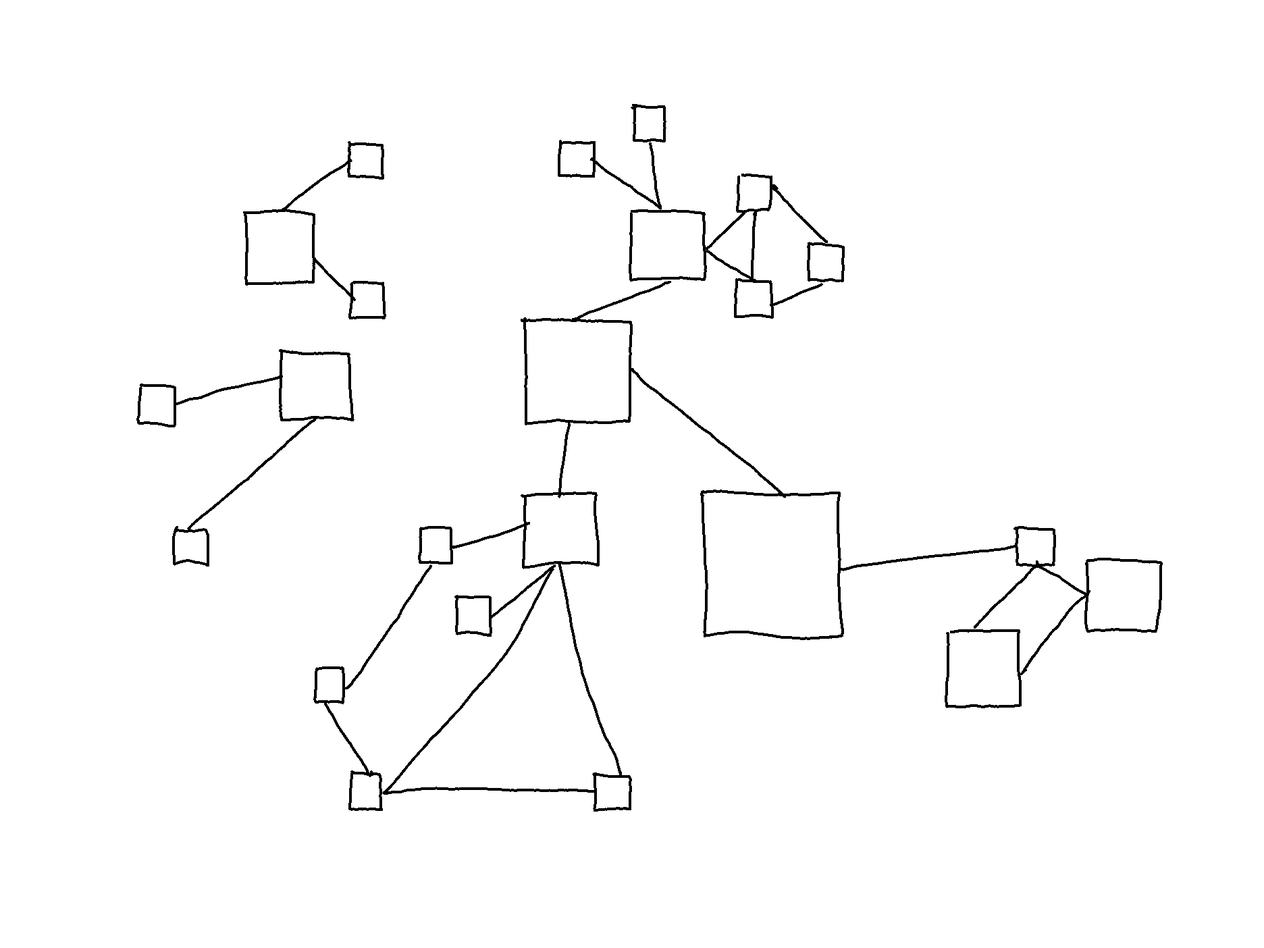
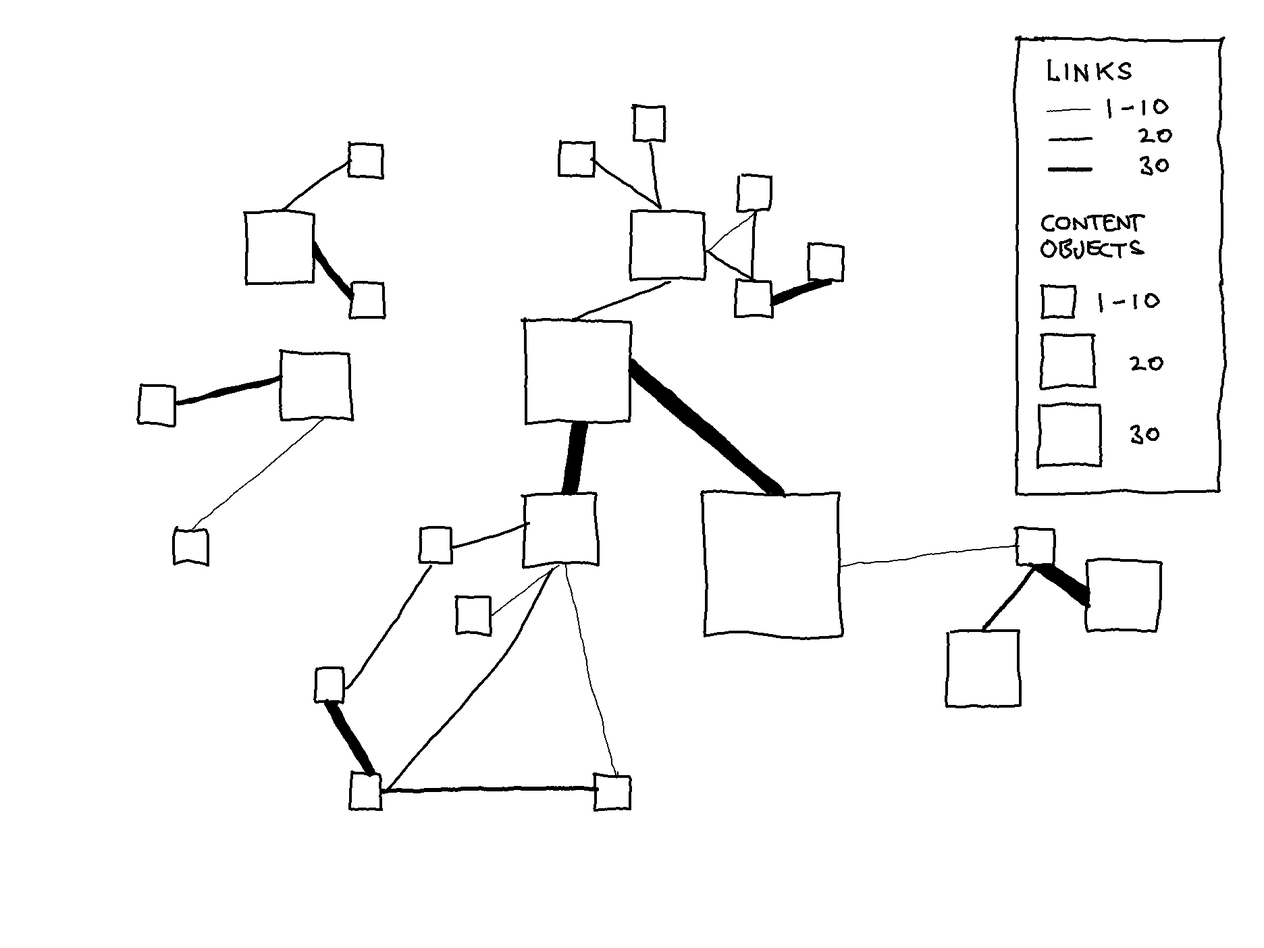
Edited Entry 04 Designing the Construct

diff --git a/_site/04.html b/_site/04.html
@@ -1,1 +1,1 @@
-<!DOCTYPE html><html lang="en" ><head><meta charset="UTF-8"><meta name="viewport" content="width=device-width, initial-scale=1.0"><link rel="preconnect" href="https://fonts.googleapis.com"><link rel="preconnect" href="https://fonts.gstatic.com" crossorigin><link href="https://fonts.googleapis.com/css2?family=Rubik&display=swap" rel="stylesheet"><meta name="generator" content="Jekyll v4.2.0" /><meta property="og:title" content="Designing the Construct" /><meta name="author" content="Rebecca Rui" /><meta property="og:locale" content="en_US" /><meta name="description" content="Components and View Modes" /><meta property="og:description" content="Components and View Modes" /><meta property="og:site_name" content="A Construct for Tinkering With Digital Text" /><meta property="og:type" content="article" /><meta property="article:published_time" content="2021-08-18T00:00:00+02:00" /><meta name="twitter:card" content="summary" /><meta property="twitter:title" content="Designing the Construct" /> <script type="application/ld+json"> {"headline":"Designing the Construct","dateModified":"2021-08-18T00:00:00+02:00","datePublished":"2021-08-18T00:00:00+02:00","mainEntityOfPage":{"@type":"WebPage","@id":"/msc_project_weblog/04"},"url":"/msc_project_weblog/04","author":{"@type":"Person","name":"Rebecca Rui"},"@type":"BlogPosting","description":"Components and View Modes","@context":"https://schema.org"}</script><title> MSc Project Weblog &#124; Designing the Construct</title><link rel="shortcut icon" href="/msc_project_weblog/favicon.png"><link rel="alternate" type="application/atom+xml" title="A Construct for Tinkering With Digital Text" href="/msc_project_weblog/atom.xml"><link rel="alternate" type="application/json" title="A Construct for Tinkering With Digital Text" href="/msc_project_weblog/feed.json" /><link rel="sitemap" type="application/xml" title="sitemap" href="/msc_project_weblog/sitemap.xml" /><style> *,:after,:before{box-sizing:border-box;background-color:inherit;color:inherit;margin:0;padding:0}body{font-family:'Rubik', sans-serif;-webkit-font-smoothing:antialiased;text-rendering:optimizeLegibility;line-height:1.5;font-size:1rem;color:#16171A}nav ul{border-right:1px solid #edf2f7}a{color:#000;text-decoration-skip-ink:auto;text-decoration:underline}pre{margin:.5rem 0;padding:.5rem}.post p{margin:.5rem 0}.post h1,.post h2,.post h3,.post h4{margin:1rem 0}.post h2:first-child,.project h2:first-child,.photo h2:first-child{margin-top:0}.meta{margin:2rem 0}.meta a{text-decoration:none}code,pre{background:#ECEDEE}code{padding:.1rem}pre code{border:none}pre{padding:1rem;overflow-x:auto}img{max-width:100%}hr{background:#000;height:1px;border:0}header{flex-basis:10rem;flex-grow:1;position:relative}header a{text-decoration:none}header li{margin-bottom:.2rem;text-align:right;margin-right:2rem}header a.active{text-decoration:underline;text-decoration-thickness:1px;text-underline-offset:0.1em;text-decoration-color:#edf2f7}header,section{padding:1rem}blockquote{font-style:italic;border-left:5px solid #ececec;padding-left:1rem}h1,h2,h3,h4,h5{line-height:1;margin:1rem 0;font-weight:600}section h1:first-child{margin-top:0}strong,b{font-weight:bold}.photos ul{list-style:none}.photos li{margin-bottom:1.5rem}.photo picture,.project picture{margin-bottom:0.5rem}.posts ul,header ul{list-style:none}.posts li{align-items:center;display:flex;justify-content:space-between;margin-bottom:.5rem}.posts li a,.posts li div,.projects li a{white-space:nowrap;overflow:hidden;text-overflow:ellipsis;text-decoration:none}.posts li time,.projects li time{padding-left:1rem;white-space:nowrap;font-variant-numeric:tabular-nums}main{display:flex;flex-wrap:wrap;max-width:60rem;margin:2rem auto;padding:1rem}@media screen and (max-width: 45rem){header li{display:inline;margin-right:1rem}.logo{padding-bottom:1rem}header ul{border-bottom:1px solid #edf2f7;padding-bottom:2rem}nav ul{border-right:0px}.photos ul{margin-top:0.5rem}}section{flex-basis:0;flex-grow:999;min-width:70%;display:flex;flex-direction:column}figcaption{font-size:smaller}</style></head><body><main role="main"><header role="banner"><nav role="navigation"><ul><li><a href="/msc_project_weblog/" >Entries</a></li><li><a href="/msc_project_weblog/about" >About</a></li></ul></nav></header><section class="post"><h2>Designing the Construct</h2><h2 id="components-and-view-modes">Components and View Modes</h2><p>View modes are different levels of perspective on documents. In addition, the two view modes differ in the components used for representing the concept of a document.</p><ol><li><strong>Inventory View</strong><ul><li>At the level of the collection.</li><li>Two-dimensional node-link diagram.</li><li>Displays quantity of connections between documents.</li></ul></li><li><strong>Stack View</strong><ul><li>At the level of a selection of the collection.</li><li>Three-dimensional layers.</li><li>Displays selection of connections and distinct connection types.</li></ul></li><li><strong>Merge Mode</strong><ul><li>At the level of content objects.</li><li>Two-dimensional frame.</li><li>Displays connections side-by-side or sequentially.</li></ul></li></ol><h3 id="1-inventory-view">1. Inventory View</h3><p><img src="assets/BP_01.png" alt="" /></p><p>In this view mode the entire inventory is visible and represented as a diagram in which a <strong>node</strong> denotes a document and a <strong>link</strong> denotes connections of varying types (specified below).</p><p><img src="assets/BP_02.png" alt="" /></p><p><strong>Node</strong></p><p>The size of a node reflects the number of content objects it contains (i.e. the size of the document).</p><p><strong>Link</strong></p><p>The length of a link reflects the number of links between the content objects across documents. Those documents that have the most links between them therefore form clusters.</p><p><img src="assets/BP_03.png" alt="" /></p><p>As seen in the image above, from Inventory View it is possible to select nodes to create a stack and enter Stack View.</p><h3 id="2-stack-view">2. Stack View</h3><p>A <strong>stack</strong> is made up of a set of documents represented as <strong>layers</strong> that contain <strong>content objects</strong>.</p><p><img src="assets/BP_A.png" alt="" /></p><p><strong>Stack</strong></p><p>A stack can be thought of as a workspace. The inventory in its entirety may contain complex layers of information, and so creating stacks is a convenient method for engaging with complexity by making a selection of which to view in more detail.</p><p><strong>Layer</strong></p><p>The concept of a document is represented as a layer, which instead of having a single title, has a single tag and appropriates its functionalities. In the image below there are four layers: <code class="language-plaintext highlighter-rouge">#MAIN</code>, <code class="language-plaintext highlighter-rouge">#A</code>, <code class="language-plaintext highlighter-rouge">#B</code>, and <code class="language-plaintext highlighter-rouge">#C</code>.</p><p><strong>Content Object</strong></p><p>Content objects are the parts that make up a text, of which there are many types: paragraphs, lists, emphatic phrases, titles, quotes, comments and so on. A content object can have any number of tags, placing it in multiple layers.</p><p><img src="assets/BP_B.png" alt="" /></p><p><strong>Link Types</strong></p><p>In the image below there are several links between the layers. As defined in the <a href="boundaries-of-documents-and-reflecting-interconnection">previous entry</a>, there are two general types of connections that cross the boundaries of documents: those that are transclusions (identical extracts in separate documents), and those that are not. In the image below, these two types are visually distinguished by dot-line-dot links and side-surface links.</p><p>*Note: it is important that these are visually distinguished but the visualization is subject to change.</p><p><img src="assets/BP_C.png" alt="" /></p><p>For the links that are not transclusions, these are categorized according to whichever taxonomy people wish to develop within the construct, hence the appropriation of a tagging system. By example, in the image below, if content object <code class="language-plaintext highlighter-rouge">ID_P2</code> is a comment on content object <code class="language-plaintext highlighter-rouge">ID_P1</code>, then the layer could be tagged <code class="language-plaintext highlighter-rouge">#COMMENTS</code>. If the other two layers are separate references, these layers could be tagged <code class="language-plaintext highlighter-rouge">#REFERENCE_X</code> and <code class="language-plaintext highlighter-rouge">#REFERENCE_Y</code>.</p><p><img src="assets/BP_D.png" alt="" /></p><p>It is also possible to display links only between a selection of layers in the stack. Upon selection, the stack is rearranged. In the two images below the layers <code class="language-plaintext highlighter-rouge">#MAIN</code> and <code class="language-plaintext highlighter-rouge">#COMMENTS</code> are selected, displaying the links between them, followed by stack rearrangement.</p><p><img src="assets/BP_X.png" alt="" /></p><p><img src="assets/BP_X2.png" alt="" /></p><p>While in Stack View it is possible to merge all or a selection of layers. The arrangement of the stack will determine how the layers are merged.</p><h3 id="3-merge-mode">3. Merge Mode</h3><p>In the image below, <code class="language-plaintext highlighter-rouge">#MAIN</code> and <code class="language-plaintext highlighter-rouge">#COMMENTS</code> are merged side by side.</p><p><img src="assets/BP_Y.png" alt="" /></p><p>In the image below, only the linked content objects (between <code class="language-plaintext highlighter-rouge">#MAIN</code> and <code class="language-plaintext highlighter-rouge">#COMMENTS</code>) are displayed side by side.</p><p><img src="assets/BP_Z1.png" alt="" /></p><p>The image below shows the option for merging the content objects sequentially. If another layer was included, the order would depend on the arrangement of layers in Stack View.</p><p><img src="assets/BP_Z2.png" alt="" /></p><span class="meta"> <time datetime="2021-08-18T00:00:00+02:00">18-08-2021</time> &#124; <a href="./tag/Design_Draft/">&#x23;Design_Draft</a> </span></section></main></body></html>
+<!DOCTYPE html><html lang="en" ><head><meta charset="UTF-8"><meta name="viewport" content="width=device-width, initial-scale=1.0"><link rel="preconnect" href="https://fonts.googleapis.com"><link rel="preconnect" href="https://fonts.gstatic.com" crossorigin><link href="https://fonts.googleapis.com/css2?family=Rubik&display=swap" rel="stylesheet"><meta name="generator" content="Jekyll v4.2.0" /><meta property="og:title" content="Designing the Construct" /><meta name="author" content="Rebecca Rui" /><meta property="og:locale" content="en_US" /><meta name="description" content="Components and View Modes" /><meta property="og:description" content="Components and View Modes" /><meta property="og:site_name" content="A Construct for Tinkering With Digital Text" /><meta property="og:type" content="article" /><meta property="article:published_time" content="2021-08-18T00:00:00+02:00" /><meta name="twitter:card" content="summary" /><meta property="twitter:title" content="Designing the Construct" /> <script type="application/ld+json"> {"headline":"Designing the Construct","dateModified":"2021-08-18T00:00:00+02:00","datePublished":"2021-08-18T00:00:00+02:00","mainEntityOfPage":{"@type":"WebPage","@id":"/msc_project_weblog/04"},"url":"/msc_project_weblog/04","author":{"@type":"Person","name":"Rebecca Rui"},"@type":"BlogPosting","description":"Components and View Modes","@context":"https://schema.org"}</script><title> MSc Project Weblog &#124; Designing the Construct</title><link rel="shortcut icon" href="/msc_project_weblog/favicon.png"><link rel="alternate" type="application/atom+xml" title="A Construct for Tinkering With Digital Text" href="/msc_project_weblog/atom.xml"><link rel="alternate" type="application/json" title="A Construct for Tinkering With Digital Text" href="/msc_project_weblog/feed.json" /><link rel="sitemap" type="application/xml" title="sitemap" href="/msc_project_weblog/sitemap.xml" /><style> *,:after,:before{box-sizing:border-box;background-color:inherit;color:inherit;margin:0;padding:0}body{font-family:'Rubik', sans-serif;-webkit-font-smoothing:antialiased;text-rendering:optimizeLegibility;line-height:1.5;font-size:1rem;color:#16171A}nav ul{border-right:1px solid #edf2f7}a{color:#000;text-decoration-skip-ink:auto;text-decoration:underline}pre{margin:.5rem 0;padding:.5rem}.post p{margin:.5rem 0}.post h1,.post h2,.post h3,.post h4{margin:1rem 0}.post h2:first-child,.project h2:first-child,.photo h2:first-child{margin-top:0}.meta{margin:2rem 0}.meta a{text-decoration:none}code,pre{background:#ECEDEE}code{padding:.1rem}pre code{border:none}pre{padding:1rem;overflow-x:auto}img{max-width:100%}hr{background:#000;height:1px;border:0}header{flex-basis:10rem;flex-grow:1;position:relative}header a{text-decoration:none}header li{margin-bottom:.2rem;text-align:right;margin-right:2rem}header a.active{text-decoration:underline;text-decoration-thickness:1px;text-underline-offset:0.1em;text-decoration-color:#edf2f7}header,section{padding:1rem}blockquote{font-style:italic;border-left:5px solid #ececec;padding-left:1rem}h1,h2,h3,h4,h5{line-height:1;margin:1rem 0;font-weight:600}section h1:first-child{margin-top:0}strong,b{font-weight:bold}.photos ul{list-style:none}.photos li{margin-bottom:1.5rem}.photo picture,.project picture{margin-bottom:0.5rem}.posts ul,header ul{list-style:none}.posts li{align-items:center;display:flex;justify-content:space-between;margin-bottom:.5rem}.posts li a,.posts li div,.projects li a{white-space:nowrap;overflow:hidden;text-overflow:ellipsis;text-decoration:none}.posts li time,.projects li time{padding-left:1rem;white-space:nowrap;font-variant-numeric:tabular-nums}main{display:flex;flex-wrap:wrap;max-width:60rem;margin:2rem auto;padding:1rem}@media screen and (max-width: 45rem){header li{display:inline;margin-right:1rem}.logo{padding-bottom:1rem}header ul{border-bottom:1px solid #edf2f7;padding-bottom:2rem}nav ul{border-right:0px}.photos ul{margin-top:0.5rem}}section{flex-basis:0;flex-grow:999;min-width:70%;display:flex;flex-direction:column}figcaption{font-size:smaller}</style></head><body><main role="main"><header role="banner"><nav role="navigation"><ul><li><a href="/msc_project_weblog/" >Entries</a></li><li><a href="/msc_project_weblog/about" >About</a></li></ul></nav></header><section class="post"><h2>Designing the Construct</h2><h2 id="components-and-view-modes">Components and View Modes</h2><p>View modes are different levels of perspective on documents. In addition, the two view modes differ in the components used for representing the concept of a document.</p><ol><li><strong>Inventory View</strong><ul><li>At the level of the collection.</li><li>Two-dimensional node-link diagram.</li><li>Displays quantity of connections between documents.</li></ul></li><li><strong>Stack View</strong><ul><li>At the level of a selection of the collection.</li><li>Three-dimensional layers.</li><li>Displays selection of connections and distinct connection types.</li></ul></li><li><strong>Merge Mode</strong><ul><li>At the level of content objects.</li><li>Two-dimensional frame.</li><li>Displays connections side-by-side or sequentially.</li></ul></li></ol><h3 id="1-inventory-view">1. Inventory View</h3><p><img src="assets/BP_01.png" alt="" /></p><p>In this view mode the entire inventory is visible and represented as a diagram in which a <strong>node</strong> denotes a document and a <strong>link</strong> denotes connections of varying types (specified below).</p><p><img src="assets/BP_02.png" alt="" /></p><p><strong>Node</strong></p><p>The size of a node reflects the number of content objects it contains (i.e. the size of the document).</p><p><strong>Link</strong></p><p>The thickness of a link reflects the number of links between the content objects across documents.</p><p><img src="assets/BP_03.png" alt="" /></p><p>As seen in the image above, from Inventory View it is possible to select nodes to create a stack and enter Stack View.</p><h3 id="2-stack-view">2. Stack View</h3><p>A <strong>stack</strong> is made up of a set of documents represented as <strong>layers</strong> that contain <strong>content objects</strong>.</p><p><img src="assets/BP_A.png" alt="" /></p><p><strong>Stack</strong></p><p>A stack can be thought of as a workspace. The inventory in its entirety may contain complex layers of information, and so creating stacks is a convenient method for engaging with complexity by making a selection of which to view in more detail.</p><p><strong>Layer</strong></p><p>The concept of a document is represented as a layer, which instead of having a single title, has a single tag and appropriates its functionalities. In the image below there are four layers: <code class="language-plaintext highlighter-rouge">#MAIN</code>, <code class="language-plaintext highlighter-rouge">#A</code>, <code class="language-plaintext highlighter-rouge">#B</code>, and <code class="language-plaintext highlighter-rouge">#C</code>.</p><p><strong>Content Object</strong></p><p>Content objects are the parts that make up a text, of which there are many types: paragraphs, lists, emphatic phrases, titles, quotes, comments and so on. A content object can have any number of tags, placing it in multiple layers.</p><p><img src="assets/BP_B.png" alt="" /></p><p><strong>Link Types</strong></p><p>In the image below there are several links between the layers. As defined in the <a href="boundaries-of-documents-and-reflecting-interconnection">previous entry</a>, there are two general types of connections that cross the boundaries of documents: those that are transclusions (identical extracts in separate documents), and those that are not. In the image below, these two types are visually distinguished by dot-line-dot links and side-surface links.</p><p>*Note: it is important that these are visually distinguished but the visualization is subject to change.</p><p><img src="assets/BP_C.png" alt="" /></p><p>For the links that are not transclusions, these are categorized according to whichever taxonomy people wish to develop within the construct, hence the appropriation of a tagging system. By example, in the image below, if content object <code class="language-plaintext highlighter-rouge">ID_P2</code> is a comment on content object <code class="language-plaintext highlighter-rouge">ID_P1</code>, then the layer could be tagged <code class="language-plaintext highlighter-rouge">#COMMENTS</code>. If the other two layers are separate references, these layers could be tagged <code class="language-plaintext highlighter-rouge">#REFERENCE_X</code> and <code class="language-plaintext highlighter-rouge">#REFERENCE_Y</code>.</p><p><img src="assets/BP_D.png" alt="" /></p><p>It is also possible to display links only between a selection of layers in the stack. Upon selection, the stack is rearranged. In the two images below the layers <code class="language-plaintext highlighter-rouge">#MAIN</code> and <code class="language-plaintext highlighter-rouge">#COMMENTS</code> are selected, displaying the links between them, followed by stack rearrangement.</p><p><img src="assets/BP_X.png" alt="" /></p><p><img src="assets/BP_X2.png" alt="" /></p><p>While in Stack View it is possible to merge all or a selection of layers. The arrangement of the stack will determine how the layers are merged.</p><h3 id="3-merge-mode">3. Merge Mode</h3><p>In the image below, <code class="language-plaintext highlighter-rouge">#MAIN</code> and <code class="language-plaintext highlighter-rouge">#COMMENTS</code> are merged side by side.</p><p><img src="assets/BP_Y.png" alt="" /></p><p>In the image below, only the linked content objects (between <code class="language-plaintext highlighter-rouge">#MAIN</code> and <code class="language-plaintext highlighter-rouge">#COMMENTS</code>) are displayed side by side.</p><p><img src="assets/BP_Z1.png" alt="" /></p><p>The image below shows the option for merging the content objects sequentially. If another layer was included, the order would depend on the arrangement of layers in Stack View.</p><p><img src="assets/BP_Z2.png" alt="" /></p><span class="meta"> <time datetime="2021-08-18T00:00:00+02:00">18-08-2021</time> &#124; <a href="./tag/Design_Draft/">&#x23;Design_Draft</a> </span></section></main></body></html>

diff --git a/_site/search.html b/_site/search.html
@@ -1,1 +1,1 @@
-<!DOCTYPE html><html lang="en" ><head><meta charset="UTF-8"><meta name="viewport" content="width=device-width, initial-scale=1.0"><link rel="preconnect" href="https://fonts.googleapis.com"><link rel="preconnect" href="https://fonts.gstatic.com" crossorigin><link href="https://fonts.googleapis.com/css2?family=Rubik&display=swap" rel="stylesheet"><meta name="generator" content="Jekyll v4.2.0" /><meta property="og:title" content="Search" /><meta name="author" content="Rebecca Rui" /><meta property="og:locale" content="en_US" /><meta property="og:site_name" content="A Construct for Tinkering With Digital Text" /><meta property="og:type" content="article" /><meta property="article:published_time" content="2021-09-18T10:50:47+02:00" /><meta name="twitter:card" content="summary" /><meta property="twitter:title" content="Search" /> <script type="application/ld+json"> {"headline":"Search","dateModified":"2021-09-18T10:50:47+02:00","datePublished":"2021-09-18T10:50:47+02:00","mainEntityOfPage":{"@type":"WebPage","@id":"/msc_project_weblog/search"},"url":"/msc_project_weblog/search","author":{"@type":"Person","name":"Rebecca Rui"},"@type":"BlogPosting","@context":"https://schema.org"}</script><title> MSc Project Weblog &#124; Search</title><link rel="shortcut icon" href="/msc_project_weblog/favicon.png"><link rel="alternate" type="application/atom+xml" title="A Construct for Tinkering With Digital Text" href="/msc_project_weblog/atom.xml"><link rel="alternate" type="application/json" title="A Construct for Tinkering With Digital Text" href="/msc_project_weblog/feed.json" /><link rel="sitemap" type="application/xml" title="sitemap" href="/msc_project_weblog/sitemap.xml" /><style> *,:after,:before{box-sizing:border-box;background-color:inherit;color:inherit;margin:0;padding:0}body{font-family:'Rubik', sans-serif;-webkit-font-smoothing:antialiased;text-rendering:optimizeLegibility;line-height:1.5;font-size:1rem;color:#16171A}nav ul{border-right:1px solid #edf2f7}a{color:#000;text-decoration-skip-ink:auto;text-decoration:underline}pre{margin:.5rem 0;padding:.5rem}.post p{margin:.5rem 0}.post h1,.post h2,.post h3,.post h4{margin:1rem 0}.post h2:first-child,.project h2:first-child,.photo h2:first-child{margin-top:0}.meta{margin:2rem 0}.meta a{text-decoration:none}code,pre{background:#ECEDEE}code{padding:.1rem}pre code{border:none}pre{padding:1rem;overflow-x:auto}img{max-width:100%}hr{background:#000;height:1px;border:0}header{flex-basis:10rem;flex-grow:1;position:relative}header a{text-decoration:none}header li{margin-bottom:.2rem;text-align:right;margin-right:2rem}header a.active{text-decoration:underline;text-decoration-thickness:1px;text-underline-offset:0.1em;text-decoration-color:#edf2f7}header,section{padding:1rem}blockquote{font-style:italic;border-left:5px solid #ececec;padding-left:1rem}h1,h2,h3,h4,h5{line-height:1;margin:1rem 0;font-weight:600}section h1:first-child{margin-top:0}strong,b{font-weight:bold}.photos ul{list-style:none}.photos li{margin-bottom:1.5rem}.photo picture,.project picture{margin-bottom:0.5rem}.posts ul,header ul{list-style:none}.posts li{align-items:center;display:flex;justify-content:space-between;margin-bottom:.5rem}.posts li a,.posts li div,.projects li a{white-space:nowrap;overflow:hidden;text-overflow:ellipsis;text-decoration:none}.posts li time,.projects li time{padding-left:1rem;white-space:nowrap;font-variant-numeric:tabular-nums}main{display:flex;flex-wrap:wrap;max-width:60rem;margin:2rem auto;padding:1rem}@media screen and (max-width: 45rem){header li{display:inline;margin-right:1rem}.logo{padding-bottom:1rem}header ul{border-bottom:1px solid #edf2f7;padding-bottom:2rem}nav ul{border-right:0px}.photos ul{margin-top:0.5rem}}section{flex-basis:0;flex-grow:999;min-width:70%;display:flex;flex-direction:column}figcaption{font-size:smaller}</style></head><body><main role="main"><header role="banner"><nav role="navigation"><ul><li><a href="/msc_project_weblog/" >Entries</a></li><li><a href="/msc_project_weblog/about" >About</a></li></ul></nav></header><section class="post"><h2>Search</h2><style> #search-container { max-width: 100%; } input[type=text] { font-size: normal; outline: none; padding: 1rem; background: rgb(236, 237, 238); width: 100%; -webkit-appearance: none; font-family: inherit; font-size: 100%; border: none; } #results-container { margin: .5rem 0; }</style><div id="search-container"> <input type="text" id="search-input" placeholder="Search..." /><ol id="results-container"></ol></div><script src="/search.js" type="text/javascript"></script> <script type="text/javascript"> SimpleJekyllSearch({ searchInput: document.getElementById('search-input'), resultsContainer: document.getElementById('results-container'), json: '/search.json', searchResultTemplate: '<li><a href="{url}" title="{desc}">{title}</a></li>', noResultsText: 'No results found', limit: 10, fuzzy: false, exclude: ['Welcome'] }) </script></section></main></body></html>
+<!DOCTYPE html><html lang="en" ><head><meta charset="UTF-8"><meta name="viewport" content="width=device-width, initial-scale=1.0"><link rel="preconnect" href="https://fonts.googleapis.com"><link rel="preconnect" href="https://fonts.gstatic.com" crossorigin><link href="https://fonts.googleapis.com/css2?family=Rubik&display=swap" rel="stylesheet"><meta name="generator" content="Jekyll v4.2.0" /><meta property="og:title" content="Search" /><meta name="author" content="Rebecca Rui" /><meta property="og:locale" content="en_US" /><meta property="og:site_name" content="A Construct for Tinkering With Digital Text" /><meta property="og:type" content="article" /><meta property="article:published_time" content="2021-09-22T20:33:12+02:00" /><meta name="twitter:card" content="summary" /><meta property="twitter:title" content="Search" /> <script type="application/ld+json"> {"headline":"Search","dateModified":"2021-09-22T20:33:12+02:00","datePublished":"2021-09-22T20:33:12+02:00","mainEntityOfPage":{"@type":"WebPage","@id":"/msc_project_weblog/search"},"url":"/msc_project_weblog/search","author":{"@type":"Person","name":"Rebecca Rui"},"@type":"BlogPosting","@context":"https://schema.org"}</script><title> MSc Project Weblog &#124; Search</title><link rel="shortcut icon" href="/msc_project_weblog/favicon.png"><link rel="alternate" type="application/atom+xml" title="A Construct for Tinkering With Digital Text" href="/msc_project_weblog/atom.xml"><link rel="alternate" type="application/json" title="A Construct for Tinkering With Digital Text" href="/msc_project_weblog/feed.json" /><link rel="sitemap" type="application/xml" title="sitemap" href="/msc_project_weblog/sitemap.xml" /><style> *,:after,:before{box-sizing:border-box;background-color:inherit;color:inherit;margin:0;padding:0}body{font-family:'Rubik', sans-serif;-webkit-font-smoothing:antialiased;text-rendering:optimizeLegibility;line-height:1.5;font-size:1rem;color:#16171A}nav ul{border-right:1px solid #edf2f7}a{color:#000;text-decoration-skip-ink:auto;text-decoration:underline}pre{margin:.5rem 0;padding:.5rem}.post p{margin:.5rem 0}.post h1,.post h2,.post h3,.post h4{margin:1rem 0}.post h2:first-child,.project h2:first-child,.photo h2:first-child{margin-top:0}.meta{margin:2rem 0}.meta a{text-decoration:none}code,pre{background:#ECEDEE}code{padding:.1rem}pre code{border:none}pre{padding:1rem;overflow-x:auto}img{max-width:100%}hr{background:#000;height:1px;border:0}header{flex-basis:10rem;flex-grow:1;position:relative}header a{text-decoration:none}header li{margin-bottom:.2rem;text-align:right;margin-right:2rem}header a.active{text-decoration:underline;text-decoration-thickness:1px;text-underline-offset:0.1em;text-decoration-color:#edf2f7}header,section{padding:1rem}blockquote{font-style:italic;border-left:5px solid #ececec;padding-left:1rem}h1,h2,h3,h4,h5{line-height:1;margin:1rem 0;font-weight:600}section h1:first-child{margin-top:0}strong,b{font-weight:bold}.photos ul{list-style:none}.photos li{margin-bottom:1.5rem}.photo picture,.project picture{margin-bottom:0.5rem}.posts ul,header ul{list-style:none}.posts li{align-items:center;display:flex;justify-content:space-between;margin-bottom:.5rem}.posts li a,.posts li div,.projects li a{white-space:nowrap;overflow:hidden;text-overflow:ellipsis;text-decoration:none}.posts li time,.projects li time{padding-left:1rem;white-space:nowrap;font-variant-numeric:tabular-nums}main{display:flex;flex-wrap:wrap;max-width:60rem;margin:2rem auto;padding:1rem}@media screen and (max-width: 45rem){header li{display:inline;margin-right:1rem}.logo{padding-bottom:1rem}header ul{border-bottom:1px solid #edf2f7;padding-bottom:2rem}nav ul{border-right:0px}.photos ul{margin-top:0.5rem}}section{flex-basis:0;flex-grow:999;min-width:70%;display:flex;flex-direction:column}figcaption{font-size:smaller}</style></head><body><main role="main"><header role="banner"><nav role="navigation"><ul><li><a href="/msc_project_weblog/" >Entries</a></li><li><a href="/msc_project_weblog/about" >About</a></li></ul></nav></header><section class="post"><h2>Search</h2><style> #search-container { max-width: 100%; } input[type=text] { font-size: normal; outline: none; padding: 1rem; background: rgb(236, 237, 238); width: 100%; -webkit-appearance: none; font-family: inherit; font-size: 100%; border: none; } #results-container { margin: .5rem 0; }</style><div id="search-container"> <input type="text" id="search-input" placeholder="Search..." /><ol id="results-container"></ol></div><script src="/search.js" type="text/javascript"></script> <script type="text/javascript"> SimpleJekyllSearch({ searchInput: document.getElementById('search-input'), resultsContainer: document.getElementById('results-container'), json: '/search.json', searchResultTemplate: '<li><a href="{url}" title="{desc}">{title}</a></li>', noResultsText: 'No results found', limit: 10, fuzzy: false, exclude: ['Welcome'] }) </script></section></main></body></html>

diff --git a/_site/about.html b/_site/about.html
@@ -1,1 +1,1 @@
-<!DOCTYPE html><html lang="en" ><head><meta charset="UTF-8"><meta name="viewport" content="width=device-width, initial-scale=1.0"><link rel="preconnect" href="https://fonts.googleapis.com"><link rel="preconnect" href="https://fonts.gstatic.com" crossorigin><link href="https://fonts.googleapis.com/css2?family=Rubik&display=swap" rel="stylesheet"><meta name="generator" content="Jekyll v4.2.0" /><meta property="og:title" content="About" /><meta name="author" content="Rebecca Rui" /><meta property="og:locale" content="en_US" /><meta name="description" content="✱ This section will provide a context of the project and will likely be written towards the end." /><meta property="og:description" content="✱ This section will provide a context of the project and will likely be written towards the end." /><meta property="og:site_name" content="A Construct for Tinkering With Digital Text" /><meta property="og:type" content="article" /><meta property="article:published_time" content="2021-09-18T10:50:47+02:00" /><meta name="twitter:card" content="summary" /><meta property="twitter:title" content="About" /> <script type="application/ld+json"> {"headline":"About","dateModified":"2021-09-18T10:50:47+02:00","datePublished":"2021-09-18T10:50:47+02:00","mainEntityOfPage":{"@type":"WebPage","@id":"/msc_project_weblog/about"},"url":"/msc_project_weblog/about","author":{"@type":"Person","name":"Rebecca Rui"},"@type":"BlogPosting","description":"✱ This section will provide a context of the project and will likely be written towards the end.","@context":"https://schema.org"}</script><title> MSc Project Weblog &#124; About</title><link rel="shortcut icon" href="/msc_project_weblog/favicon.png"><link rel="alternate" type="application/atom+xml" title="A Construct for Tinkering With Digital Text" href="/msc_project_weblog/atom.xml"><link rel="alternate" type="application/json" title="A Construct for Tinkering With Digital Text" href="/msc_project_weblog/feed.json" /><link rel="sitemap" type="application/xml" title="sitemap" href="/msc_project_weblog/sitemap.xml" /><style> *,:after,:before{box-sizing:border-box;background-color:inherit;color:inherit;margin:0;padding:0}body{font-family:'Rubik', sans-serif;-webkit-font-smoothing:antialiased;text-rendering:optimizeLegibility;line-height:1.5;font-size:1rem;color:#16171A}nav ul{border-right:1px solid #edf2f7}a{color:#000;text-decoration-skip-ink:auto;text-decoration:underline}pre{margin:.5rem 0;padding:.5rem}.post p{margin:.5rem 0}.post h1,.post h2,.post h3,.post h4{margin:1rem 0}.post h2:first-child,.project h2:first-child,.photo h2:first-child{margin-top:0}.meta{margin:2rem 0}.meta a{text-decoration:none}code,pre{background:#ECEDEE}code{padding:.1rem}pre code{border:none}pre{padding:1rem;overflow-x:auto}img{max-width:100%}hr{background:#000;height:1px;border:0}header{flex-basis:10rem;flex-grow:1;position:relative}header a{text-decoration:none}header li{margin-bottom:.2rem;text-align:right;margin-right:2rem}header a.active{text-decoration:underline;text-decoration-thickness:1px;text-underline-offset:0.1em;text-decoration-color:#edf2f7}header,section{padding:1rem}blockquote{font-style:italic;border-left:5px solid #ececec;padding-left:1rem}h1,h2,h3,h4,h5{line-height:1;margin:1rem 0;font-weight:600}section h1:first-child{margin-top:0}strong,b{font-weight:bold}.photos ul{list-style:none}.photos li{margin-bottom:1.5rem}.photo picture,.project picture{margin-bottom:0.5rem}.posts ul,header ul{list-style:none}.posts li{align-items:center;display:flex;justify-content:space-between;margin-bottom:.5rem}.posts li a,.posts li div,.projects li a{white-space:nowrap;overflow:hidden;text-overflow:ellipsis;text-decoration:none}.posts li time,.projects li time{padding-left:1rem;white-space:nowrap;font-variant-numeric:tabular-nums}main{display:flex;flex-wrap:wrap;max-width:60rem;margin:2rem auto;padding:1rem}@media screen and (max-width: 45rem){header li{display:inline;margin-right:1rem}.logo{padding-bottom:1rem}header ul{border-bottom:1px solid #edf2f7;padding-bottom:2rem}nav ul{border-right:0px}.photos ul{margin-top:0.5rem}}section{flex-basis:0;flex-grow:999;min-width:70%;display:flex;flex-direction:column}figcaption{font-size:smaller}</style></head><body><main role="main"><header role="banner"><nav role="navigation"><ul><li><a href="/msc_project_weblog/" >Entries</a></li><li><a href="/msc_project_weblog/about" >About</a></li></ul></nav></header><section class="post"><h2>About</h2><p>✱ This section will provide a context of the project and will likely be written towards the end.</p></section></main></body></html>
+<!DOCTYPE html><html lang="en" ><head><meta charset="UTF-8"><meta name="viewport" content="width=device-width, initial-scale=1.0"><link rel="preconnect" href="https://fonts.googleapis.com"><link rel="preconnect" href="https://fonts.gstatic.com" crossorigin><link href="https://fonts.googleapis.com/css2?family=Rubik&display=swap" rel="stylesheet"><meta name="generator" content="Jekyll v4.2.0" /><meta property="og:title" content="About" /><meta name="author" content="Rebecca Rui" /><meta property="og:locale" content="en_US" /><meta name="description" content="✱ This section will provide a context of the project and will likely be written towards the end." /><meta property="og:description" content="✱ This section will provide a context of the project and will likely be written towards the end." /><meta property="og:site_name" content="A Construct for Tinkering With Digital Text" /><meta property="og:type" content="article" /><meta property="article:published_time" content="2021-09-22T20:33:12+02:00" /><meta name="twitter:card" content="summary" /><meta property="twitter:title" content="About" /> <script type="application/ld+json"> {"headline":"About","dateModified":"2021-09-22T20:33:12+02:00","datePublished":"2021-09-22T20:33:12+02:00","mainEntityOfPage":{"@type":"WebPage","@id":"/msc_project_weblog/about"},"url":"/msc_project_weblog/about","author":{"@type":"Person","name":"Rebecca Rui"},"@type":"BlogPosting","description":"✱ This section will provide a context of the project and will likely be written towards the end.","@context":"https://schema.org"}</script><title> MSc Project Weblog &#124; About</title><link rel="shortcut icon" href="/msc_project_weblog/favicon.png"><link rel="alternate" type="application/atom+xml" title="A Construct for Tinkering With Digital Text" href="/msc_project_weblog/atom.xml"><link rel="alternate" type="application/json" title="A Construct for Tinkering With Digital Text" href="/msc_project_weblog/feed.json" /><link rel="sitemap" type="application/xml" title="sitemap" href="/msc_project_weblog/sitemap.xml" /><style> *,:after,:before{box-sizing:border-box;background-color:inherit;color:inherit;margin:0;padding:0}body{font-family:'Rubik', sans-serif;-webkit-font-smoothing:antialiased;text-rendering:optimizeLegibility;line-height:1.5;font-size:1rem;color:#16171A}nav ul{border-right:1px solid #edf2f7}a{color:#000;text-decoration-skip-ink:auto;text-decoration:underline}pre{margin:.5rem 0;padding:.5rem}.post p{margin:.5rem 0}.post h1,.post h2,.post h3,.post h4{margin:1rem 0}.post h2:first-child,.project h2:first-child,.photo h2:first-child{margin-top:0}.meta{margin:2rem 0}.meta a{text-decoration:none}code,pre{background:#ECEDEE}code{padding:.1rem}pre code{border:none}pre{padding:1rem;overflow-x:auto}img{max-width:100%}hr{background:#000;height:1px;border:0}header{flex-basis:10rem;flex-grow:1;position:relative}header a{text-decoration:none}header li{margin-bottom:.2rem;text-align:right;margin-right:2rem}header a.active{text-decoration:underline;text-decoration-thickness:1px;text-underline-offset:0.1em;text-decoration-color:#edf2f7}header,section{padding:1rem}blockquote{font-style:italic;border-left:5px solid #ececec;padding-left:1rem}h1,h2,h3,h4,h5{line-height:1;margin:1rem 0;font-weight:600}section h1:first-child{margin-top:0}strong,b{font-weight:bold}.photos ul{list-style:none}.photos li{margin-bottom:1.5rem}.photo picture,.project picture{margin-bottom:0.5rem}.posts ul,header ul{list-style:none}.posts li{align-items:center;display:flex;justify-content:space-between;margin-bottom:.5rem}.posts li a,.posts li div,.projects li a{white-space:nowrap;overflow:hidden;text-overflow:ellipsis;text-decoration:none}.posts li time,.projects li time{padding-left:1rem;white-space:nowrap;font-variant-numeric:tabular-nums}main{display:flex;flex-wrap:wrap;max-width:60rem;margin:2rem auto;padding:1rem}@media screen and (max-width: 45rem){header li{display:inline;margin-right:1rem}.logo{padding-bottom:1rem}header ul{border-bottom:1px solid #edf2f7;padding-bottom:2rem}nav ul{border-right:0px}.photos ul{margin-top:0.5rem}}section{flex-basis:0;flex-grow:999;min-width:70%;display:flex;flex-direction:column}figcaption{font-size:smaller}</style></head><body><main role="main"><header role="banner"><nav role="navigation"><ul><li><a href="/msc_project_weblog/" >Entries</a></li><li><a href="/msc_project_weblog/about" >About</a></li></ul></nav></header><section class="post"><h2>About</h2><p>✱ This section will provide a context of the project and will likely be written towards the end.</p></section></main></body></html>

diff --git a/_posts/2021-08-18-04.md b/_posts/2021-08-18-04.md
@@ -36,7 +36,7 @@ The size of a node reflects the number of content objects it contains (i.e. the 
 
 **Link**
 
-The length of a link reflects the number of links between the content objects across documents. Those documents that have the most links between them therefore form clusters.
+The thickness of a link reflects the number of links between the content objects across documents.
 
 ![](assets/BP_03.png)
 
